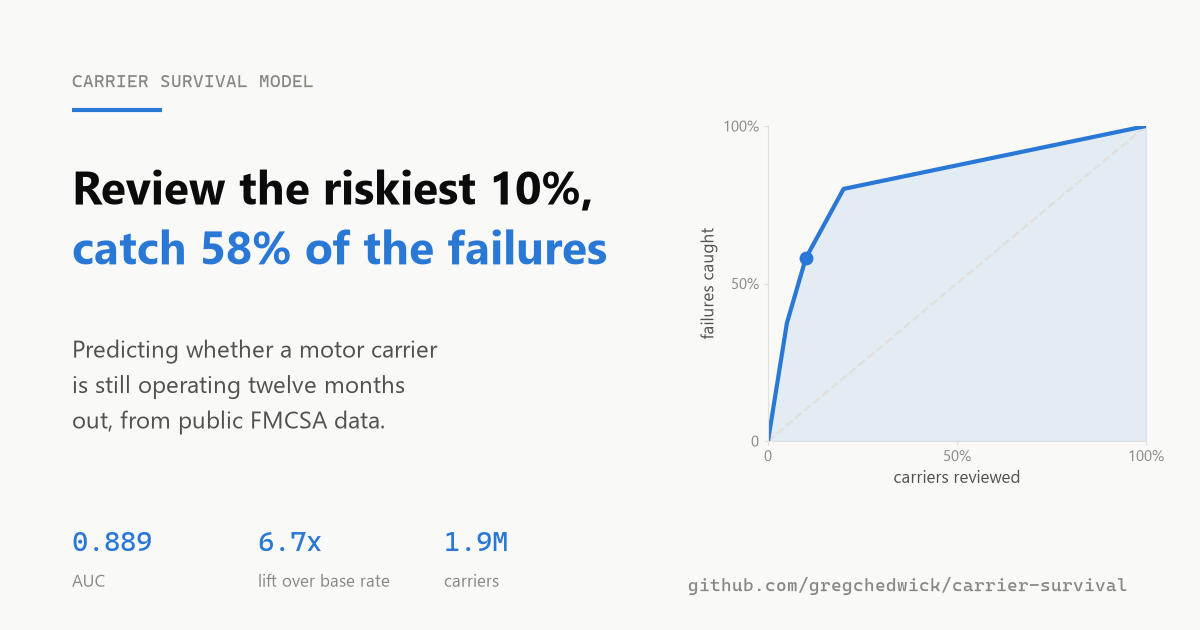
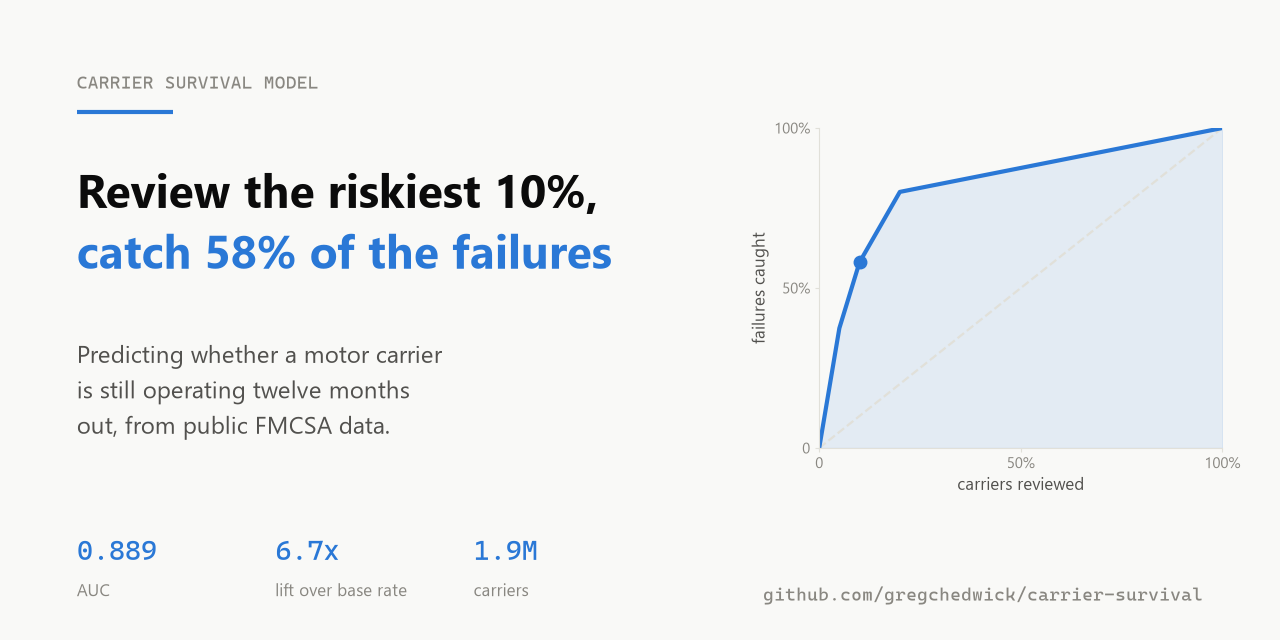
Render the repository cards at GitHub's 1280x640
GitHub asks for 1280x640 -- a true 2:1 -- for a repository's social preview and
letterboxes anything else. The cards were 1200x630, the Open Graph convention,
which is right for the site's own og:image but slightly off for GitHub.

Both sizes now render from one spec, since the layout is expressed in
figure-relative coordinates: og-image.png stays 1200x630, the two project cards
move to 1280x640.

Also corrects the script's closing message. Social preview is a REPOSITORY
setting under Settings -> General; the profile page's "Social accounts" field is
a different thing entirely -- five links, no image -- and the old wording sent
you to the wrong page.

diff --git a/scripts/build_social_cards.py b/scripts/build_social_cards.py
@@ -2,11 +2,11 @@
 
     python scripts/build_social_cards.py
 
-Writes three 1200x630 PNGs into public/:
+Writes three PNGs into public/:
 
-    og-image.png              the site's own og:image
-    social/carrier-survival.png
-    social/netflix-ads.png
+    og-image.png                 1200x630, the site's own og:image
+    social/carrier-survival.png  1280x640, GitHub's repository social preview
+    social/netflix-ads.png       1280x640
 
 The site had no og:image at all, so every share of gregchedwick.dev rendered as
 a card with no picture — and the twitter:card tag promises a *large* image,
@@ -52,11 +52,17 @@ ACCENT2 = "#eb6834"
 FAMILY = ["Segoe UI", "DejaVu Sans"]
 MONO = ["Cascadia Mono", "Consolas", "DejaVu Sans Mono"]
 
-W, H = 12.0, 6.3  # inches at dpi 100 -> 1200x630, the size every platform wants
+# Two sizes, because the destinations disagree. 1200x630 is the Open Graph
+# convention the site's own card follows; GitHub asks for 1280x640 (a true 2:1)
+# for its repository social preview and will letterbox anything else. The layout
+# is expressed in figure-relative coordinates, so both render from one spec.
+OG = (12.0, 6.30)      # 1200x630 at dpi 100
+GITHUB = (12.8, 6.40)  # 1280x640
+W, H = OG
 
 
-def canvas():
-    fig = plt.figure(figsize=(W, H), dpi=100)
+def canvas(size=None):
+    fig = plt.figure(figsize=size or OG, dpi=100)
     fig.patch.set_facecolor(PAGE)
     ax = fig.add_axes([0, 0, 1, 1])
     ax.set_xlim(0, 1)
@@ -120,7 +126,7 @@ def site_card(profile_title: str) -> None:
 
 # ------------------------------------------------------------- carrier card ---
 def carrier_card(m: dict) -> None:
-    fig, ax = canvas()
+    fig, ax = canvas(GITHUB)
     x = 0.06
     gains = m["gains"]
     ten = round(gains["top_10pct"] * 100)
@@ -176,7 +182,7 @@ def carrier_card(m: dict) -> None:
 
 # ------------------------------------------------------------- netflix card ---
 def netflix_card(d: dict) -> None:
-    fig, ax = canvas()
+    fig, ax = canvas(GITHUB)
     x = 0.06
     ranked = d["titleCount"]
 
@@ -232,12 +238,16 @@ def main() -> None:
     resume = (SITE / "src" / "data" / "resume.ts").read_text(encoding="utf8")
     title = resume.split("title: '", 1)[1].split("'", 1)[0]
 
-    print("building link-preview cards (1200x630):")
+    print("building link-preview cards:")
     site_card(title)
     carrier_card(metrics)
     netflix_card(netflix)
-    print("\nUpload the two social/ cards to each repo under Settings -> Social preview,")
-    print("and use the same files as LinkedIn Featured thumbnails.")
+    # Social preview is a REPOSITORY setting, not an account one. The profile
+    # page's "Social accounts" field is a different thing entirely — five links,
+    # no image.
+    print("\nThe two social/ cards go on each REPOSITORY:")
+    print("  github.com/gregchedwick/<repo> -> Settings -> General -> Social preview")
+    print("The same files work as LinkedIn Featured thumbnails.")
 
 
 if __name__ == "__main__":
